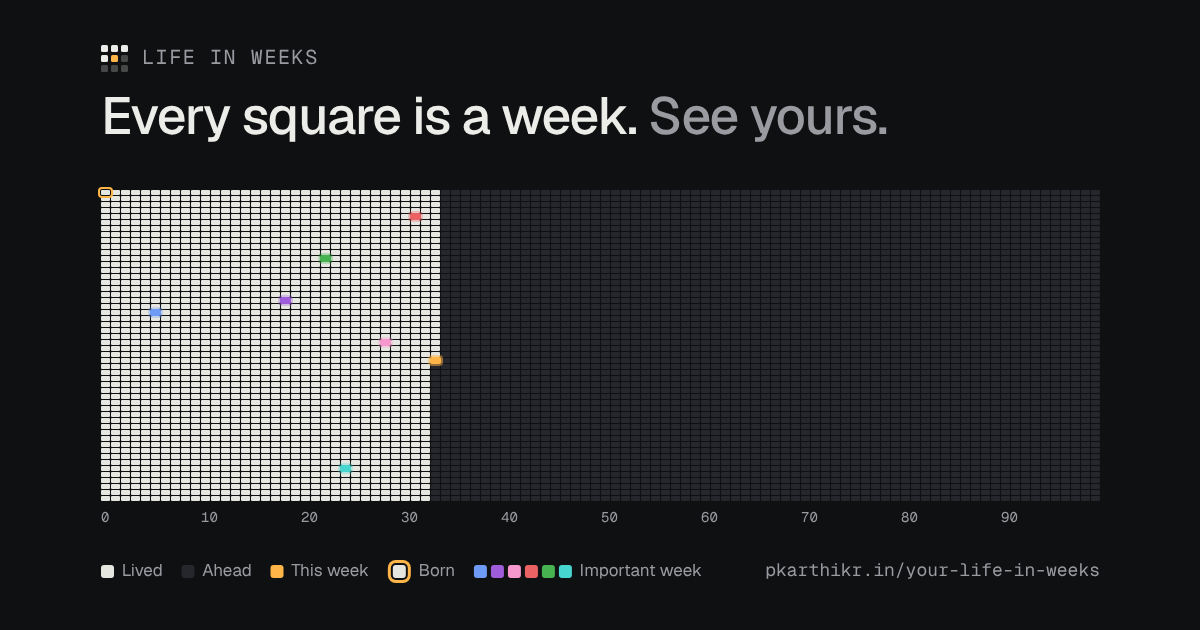
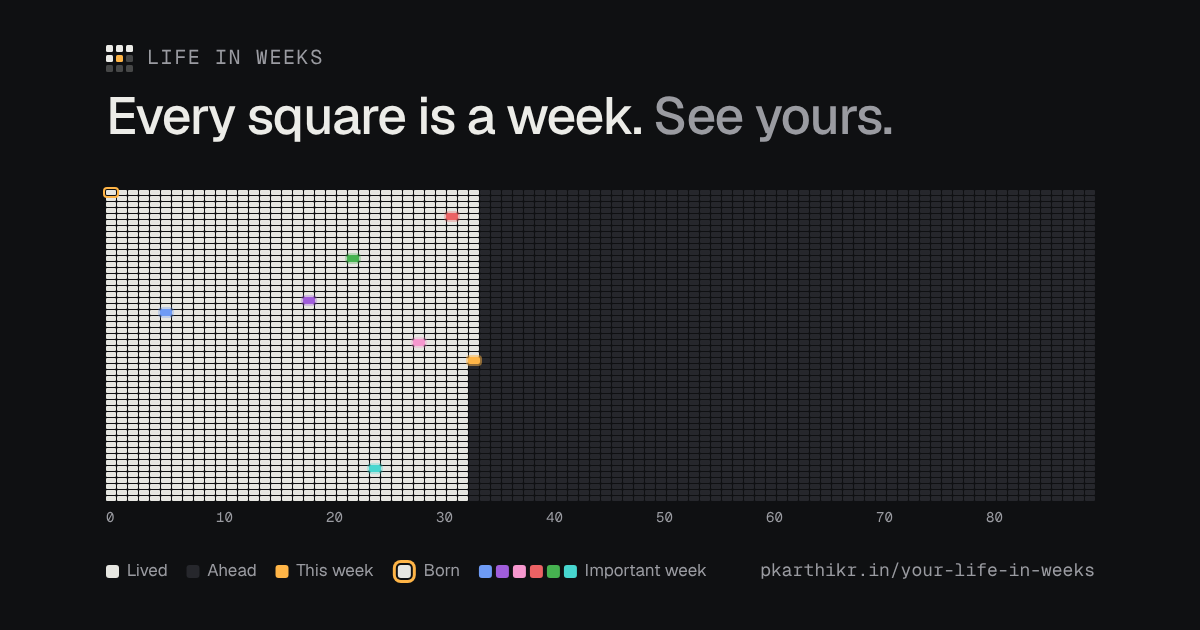
Start at 90 years instead of 100 until a life span is chosen (#15)
* Let people set their life span: WHO life expectancy by country and sex, or their own number

The grid is no longer fixed at 100 years. Settings has a Your life span card:
pick a country and Average, Male or Female to count against WHO life
expectancy at birth, or type any number of years (decimals fine). Until one
is chosen it stays at 100.

Weeks past the span are kept, not dropped: the grid runs on past the span
only as far as this week and anything saved needs, with those weeks as faded
outlines. Backups are version 3 and carry the life span.

The WHO figures are bundled (scripts/life-expectancy.mjs regenerates them),
so the app still makes no requests.

Claude-Session: https://claude.ai/code/session_017UpENmh4qwqPYn4csSE9Ey

* Start at 90 years instead of 100 until a life span is chosen

Updates the default in the grid, the page's placeholder numbers, the
link-preview picture and its alt text, the README and the tests that
assumed a 100-year grid.

Claude-Session: https://claude.ai/code/session_017UpENmh4qwqPYn4csSE9Ey

---------

diff --git a/test/picture.test.js b/test/picture.test.js
@@ -75,14 +75,14 @@ test('the link preview is 1200 × 630, has no Share button, and its weeks fill t
   assert.deepEqual([grid.cols, grid.rows], [YEARS, WEEKS_PER_YEAR]);
   // 52 weeks in 630 pixels, under the title, leave them short; they stay
   // whole pixels, apart, and no narrower than they are tall.
-  assert.deepEqual([grid.cellW, grid.cellH, grid.colGap, grid.rowGap], [9, 5, 1, 1]);
+  assert.deepEqual([grid.cellW, grid.cellH, grid.colGap, grid.rowGap], [10, 5, 1, 1]);
   const room = PREVIEW.width - 2 * PREVIEW.margin.side;
   assert.ok(grid.width <= room && room - grid.width < grid.cols, `${grid.width} of ${room}px`);
 });
 
-test('the story keeps the weeks it was approved with: 16 × 10 with 2px gaps', () => {
+test('the story fits 16 × 11 weeks with 2px gaps', () => {
   const { grid } = pictureLayout(FORMATS.story);
-  assert.deepEqual([grid.cellW, grid.cellH, grid.colGap, grid.rowGap], [16, 10, 2, 2]);
+  assert.deepEqual([grid.cellW, grid.cellH, grid.colGap, grid.rowGap], [16, 11, 2, 2]);
 });
 
 test('cellBox walks a grid of rows year by year, down the picture', () => {
@@ -117,7 +117,7 @@ test('pictureText counts weeks lived and ahead', () => {
   const text = pictureText(lifeStats(d('1990-01-01'), d('2026-11-04')));
   assert.equal(text.eyebrow, 'My life in weeks');
   assert.equal(text.lived, '1,915 weeks lived.');
-  assert.equal(text.ahead, '3,284 weeks ahead.');
+  assert.equal(text.ahead, '2,764 weeks ahead.');
 });
 
 test('pictureText says "week" for one', () => {
@@ -266,8 +266,8 @@ test('drawPicture paints each important week in its own color, and the legend sh
 test('drawPicture writes the title, ages, legend and address, and no event labels', () => {
   const { texts } = draw('1990-01-01', '2026-11-04', [{ id: 1, date: '2015-03-02', label: 'Secret', color: 'teal' }]);
   assert.ok(texts.includes('1,915 weeks lived.'));
-  assert.ok(texts.includes('3,284 weeks ahead.'));
-  assert.deepEqual(texts.filter((t) => /^\d+$/.test(t)), ['0', '10', '20', '30', '40', '50', '60', '70', '80', '90']);
+  assert.ok(texts.includes('2,764 weeks ahead.'));
+  assert.deepEqual(texts.filter((t) => /^\d+$/.test(t)), ['0', '10', '20', '30', '40', '50', '60', '70', '80']);
   for (const label of ['Lived', 'Ahead', 'This week', 'Born', 'Important week']) assert.ok(texts.includes(label), label);
   assert.ok(texts.includes('example.github.io/weeks'));
   assert.ok(!texts.some((t) => t.includes('Secret')), 'important-week labels stay private');
@@ -328,7 +328,7 @@ test('drawPicture writes the text it is given in place of the counts', () => {
 test('the X picture puts lived and ahead on one line, and the address beside the legend', () => {
   const { textCalls, layout } = draw('1990-01-01', '2026-11-04', [], 'example.github.io/weeks', FORMATS.x);
   const lived = textCalls.find((c) => c.text === '1,915 weeks lived.');
-  const ahead = textCalls.find((c) => c.text === '3,284 weeks ahead.');
+  const ahead = textCalls.find((c) => c.text === '2,764 weeks ahead.');
   assert.equal(lived.y, ahead.y);
   assert.ok(ahead.x > lived.x);
   const site = textCalls.find((c) => c.text === 'example.github.io/weeks');
@@ -338,7 +338,7 @@ test('the X picture puts lived and ahead on one line, and the address beside the
 test('a grid of columns has its ages along the bottom, at the start of each decade', () => {
   const { textCalls, layout } = draw('1990-01-01', '2026-11-04', [], '', FORMATS.linkedin);
   const ages = textCalls.filter((c) => /^\d+$/.test(c.text));
-  assert.deepEqual(ages.map((c) => c.text), ['0', '10', '20', '30', '40', '50', '60', '70', '80', '90']);
+  assert.deepEqual(ages.map((c) => c.text), ['0', '10', '20', '30', '40', '50', '60', '70', '80']);
   for (const c of ages) {
     assert.equal(c.y, layout.ages.y);
     assert.equal(c.x, cellBox(layout.grid, Number(c.text) * WEEKS_PER_YEAR).x);

diff --git a/site/index.html b/site/index.html
@@ -17,9 +17,9 @@
 <meta property="og:image:type" content="image/png">
 <meta property="og:image:width" content="1200">
 <meta property="og:image:height" content="630">
-<meta property="og:image:alt" content="The Life in Weeks grid for a sample life: 100 years as 5,200 small squares, one per week, with the weeks lived filled in and a few important weeks in color.">
+<meta property="og:image:alt" content="The Life in Weeks grid for a sample life: 90 years as 4,680 small squares, one per week, with the weeks lived filled in and a few important weeks in color.">
 <meta name="twitter:card" content="summary_large_image">
-<meta name="twitter:image:alt" content="The Life in Weeks grid for a sample life: 100 years as 5,200 small squares, one per week, with the weeks lived filled in and a few important weeks in color.">
+<meta name="twitter:image:alt" content="The Life in Weeks grid for a sample life: 90 years as 4,680 small squares, one per week, with the weeks lived filled in and a few important weeks in color.">
 <link rel="icon" href="favicon.svg" type="image/svg+xml">
 <link rel="preload" href="fonts/geist-latin.woff2" as="font" type="font/woff2" crossorigin>
 <link rel="preload" href="fonts/geist-mono-latin.woff2" as="font" type="font/woff2" crossorigin>
@@ -61,14 +61,14 @@
   <div id="weeks-view" class="weeks" hidden>
     <header class="hero">
       <div class="hero-text">
-        <p class="eyebrow"><span id="years">100</span> years · <span id="total">5,200</span> weeks</p>
+        <p class="eyebrow"><span id="years">90</span> years · <span id="total">4,680</span> weeks</p>
         <h1 class="title" id="weeks-title" tabindex="-1">Every square is a week.</h1>
         <p class="sub">Born <span id="born"></span>. You are in week <span id="week"></span> of year <span id="age"></span>.</p>
       </div>
       <div class="stats">
         <div class="stat"><span class="statn" id="lived"></span><span class="statl">weeks lived</span></div>
         <div class="stat"><span class="statn" id="ahead"></span><span class="statl">weeks ahead</span></div>
-        <div class="stat"><span class="statn"><span id="pct"></span>%</span><span class="statl">of <span id="years-2">100</span> years</span></div>
+        <div class="stat"><span class="statn"><span id="pct"></span>%</span><span class="statl">of <span id="years-2">90</span> years</span></div>
       </div>
     </header>
 

diff --git a/test/weeks.test.js b/test/weeks.test.js
@@ -90,11 +90,11 @@ test('weekStart is the inverse of weekPosition', () => {
   }
 });
 
-test('the grid covers 100 years', () => {
-  assert.equal(YEARS, 100);
-  const s = lifeStats(d('1931-11-10'), d('2026-11-04')); // 94 years old
-  assert.equal(s.total, 5200);
-  assert.equal(s.age, 94);
+test('the grid covers 90 years by default', () => {
+  assert.equal(YEARS, 90);
+  const s = lifeStats(d('1941-11-01'), d('2026-11-04')); // 85 years old
+  assert.equal(s.total, 4680);
+  assert.equal(s.age, 85);
   assert.ok(s.ahead > 0);
 });
 
@@ -171,9 +171,9 @@ test('eventsByWeek groups, sorts and drops out-of-range events', () => {
     { id: 2, date: '2015-03-04', label: 'Second' },
     { id: 1, date: '2015-03-02', label: 'First' },
     { id: 3, date: '1989-12-31', label: 'Before birth' },
-    { id: 4, date: '2090-01-01', label: 'Past the grid' },
+    { id: 4, date: '2080-01-01', label: 'Past the grid' },
     { id: 5, date: 'garbage', label: 'Bad date' },
-    { id: 6, date: '2089-12-31', label: 'Last week of the grid' },
+    { id: 6, date: '2079-12-31', label: 'Last week of the grid' },
   ], YEARS);
   assert.equal(map.size, 2);
   assert.ok(map.has(YEARS * 52 - 1));
@@ -239,11 +239,11 @@ test('chapterSpan cuts off what is not on the grid', () => {
   assert.deepEqual(chapterSpan(born, ch(1, '1985-01-01', '1991-01-01'), today), { first: 0, last: at('1991-01-01') });
   assert.equal(chapterSpan(born, ch(1, '1985-01-01', '1989-01-01'), today), null);
   // Runs past the end of the grid, or begins after it.
-  assert.deepEqual(chapterSpan(born, ch(1, '2080-01-01', '2095-01-01'), today, YEARS), { first: at('2080-01-01'), last: YEARS * WEEKS_PER_YEAR - 1 });
-  assert.equal(chapterSpan(born, ch(1, '2091-01-01', '2095-01-01'), today, YEARS), null);
+  assert.deepEqual(chapterSpan(born, ch(1, '2070-01-01', '2095-01-01'), today, YEARS), { first: at('2070-01-01'), last: YEARS * WEEKS_PER_YEAR - 1 });
+  assert.equal(chapterSpan(born, ch(1, '2081-01-01', '2095-01-01'), today, YEARS), null);
   // Someone older than the grid with a chapter still going.
   const old = d('1920-01-01');
-  assert.deepEqual(chapterSpan(old, ch(1, '2015-01-01', ''), today, YEARS).last, YEARS * WEEKS_PER_YEAR - 1);
+  assert.deepEqual(chapterSpan(old, ch(1, '2005-01-01', ''), today, YEARS).last, YEARS * WEEKS_PER_YEAR - 1);
 });
 
 test('chapterSpan is null for a chapter it cannot place', () => {

diff --git a/test/lifespan.test.js b/test/lifespan.test.js
@@ -40,7 +40,7 @@ test('a country and sex give that country’s figure', () => {
   assert.equal(findCountry('ZZZ'), null);
 });
 
-test('a number of your own wins, then the country’s figure, then 100', () => {
+test('a number of your own wins, then the country’s figure, then 90', () => {
   const india = findCountry('IND');
   assert.deepEqual(lifespanYears({ country: 'IND', sex: 'male', custom: 120 }), { years: 120, basis: 'custom' });
   assert.deepEqual(lifespanYears({ country: 'IND', sex: 'male', custom: null }), { years: india.male, basis: 'country' });
@@ -70,7 +70,7 @@ test('years read as a person would say them', () => {
 });
 
 test('describeLifespan says where the number comes from', () => {
-  assert.match(describeLifespan(DEFAULT_LIFESPAN), /100 years\. Pick a country/);
+  assert.match(describeLifespan(DEFAULT_LIFESPAN), /90 years\. Pick a country/);
   assert.match(describeLifespan({ country: '', sex: 'both', custom: 120 }), /120 years, the number you set/);
   const text = describeLifespan({ country: 'IND', sex: 'male', custom: null });
   assert.match(text, /men in India, 2023/);

diff --git a/site/js/app.js b/site/js/app.js
@@ -137,7 +137,7 @@ function formYears() {
   return birth ? calendarYearsFor(birth, startOfToday()) : spanYears();
 }
 
-/** The years the grid counts against: the person's own number, their country's, or 100. */
+/** The years the grid counts against: the person's own number, their country's, or 90. */
 const spanYears = () => lifespanYears(data.lifespan).years;
 
 /** How many years of calendar a date may fall in, for the form checks. */
@@ -180,7 +180,7 @@ function renderWeeks(birth, today) {
   currentToday = today;
   currentNowIndex = stats.nowIndex;
 
-  // Rebuilding 5,200 cells is cheap but not free; only do it when the
+  // Rebuilding thousands of cells is cheap but not free; only do it when the
   // inputs that shape the grid change. A chapter that is still going grows
   // with this week, which is in the key.
   const key = [

diff --git a/site/js/backup.js b/site/js/backup.js
@@ -59,7 +59,7 @@ export function sizeError(bytes) {
  * Chapters and important weeks go through the same cleaning as a normal
  * load, so one malformed entry is dropped rather than spoiling the rest. A
  * version 1 backup, from before chapters, restores with none; one from before
- * the life span restores with the default 100 years.
+ * the life span restores with the default 90 years.
  */
 export function readBackup(text) {
   let body;

diff --git a/site/js/weeks.js b/site/js/weeks.js
@@ -5,7 +5,7 @@
 // days so every row lines up with the next birthday.
 
 /** The span shown until a person picks their own (see lifespan.js). */
-export const YEARS = 100;
+export const YEARS = 90;
 export const WEEKS_PER_YEAR = 52;
 
 /** No span is longer than this, so nothing a person saved is ever cut off the grid. */

diff --git a/README.md b/README.md
@@ -1,6 +1,6 @@
 # Life in Weeks
 
-Your whole life on one page: one square per week, one row per year, for as many years as you choose to count (100 until you pick).
+Your whole life on one page: one square per week, one row per year, for as many years as you choose to count (90 until you pick).
 
 Inspired by Tim Urban's [Your Life in Weeks](https://waitbutwhy.com/2014/05/life-weeks.html) on Wait But Why.
 
@@ -73,7 +73,7 @@ test/            unit tests (node --test)
 
 ## Life span
 
-Settings → **Your life span** sets how many years the grid counts. Pick a country and Average, Male or Female, and it uses that country's life expectancy at birth; or type your own number (1 to 150, decimals fine, e.g. 120), which wins. Until one is chosen it stays at 100 years.
+Settings → **Your life span** sets how many years the grid counts. Pick a country and Average, Male or Female, and it uses that country's life expectancy at birth; or type your own number (1 to 150, decimals fine, e.g. 120), which wins. Until one is chosen it stays at 90 years.
 
 The figures are the World Health Organization's life expectancy at birth ([Global Health Observatory](https://www.who.int/data/gho/data/indicators/indicator-details/GHO/life-expectancy-at-birth-(years)), CC BY-NC-SA 3.0 IGO). They are saved in `site/js/life-expectancy.js`, so the app never looks anything up. To refresh them when WHO publishes a new year, run `npm run life-expectancy` and commit the result. It is an average at birth, not a forecast for any one person.
 
